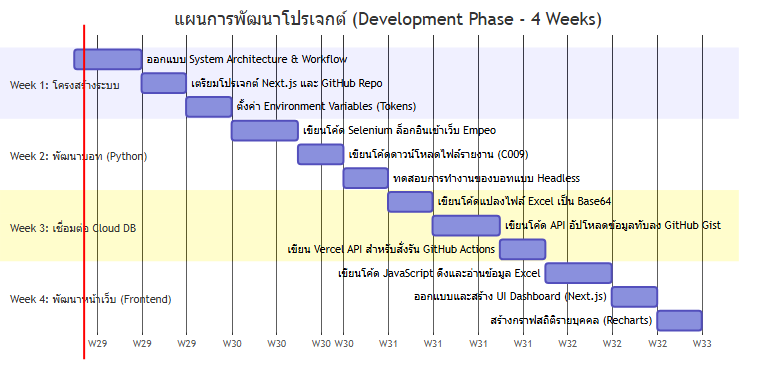
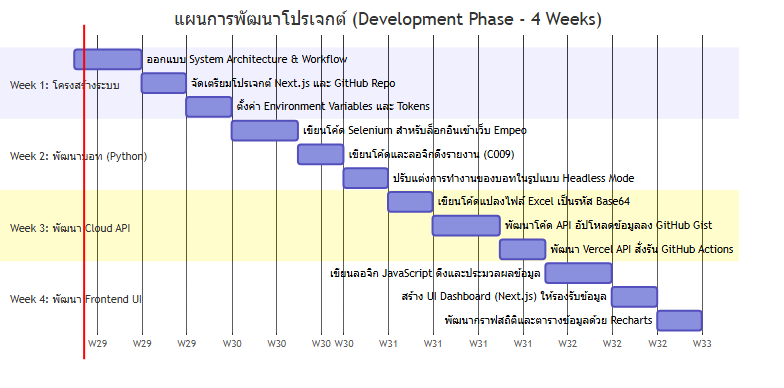
docs: remove testing from development plan

diff --git a/DEVELOPMENT_PLAN.md b/DEVELOPMENT_PLAN.md
@@ -7,22 +7,22 @@ gantt
     axisFormat  W%W
     
     section Week 1: โครงสร้างระบบ
-    ออกแบบ System Architecture & Workflow     :a1, 2026-07-20, 3d
-    เตรียมโปรเจกต์ Next.js และ GitHub Repo    :a2, after a1, 2d
-    ตั้งค่า Environment Variables (Tokens)     :a3, after a2, 2d
+    ออกแบบ System Architecture & Workflow       :a1, 2026-07-20, 3d
+    จัดเตรียมโปรเจกต์ Next.js และ GitHub Repo    :a2, after a1, 2d
+    ตั้งค่า Environment Variables และ Tokens     :a3, after a2, 2d
     
     section Week 2: พัฒนาบอท (Python)
-    เขียนโค้ด Selenium ล็อกอินเข้าเว็บ Empeo     :b1, 2026-07-27, 3d
-    เขียนโค้ดดาวน์โหลดไฟล์รายงาน (C009)        :b2, after b1, 2d
-    ทดสอบการทำงานของบอทแบบ Headless         :b3, after b2, 2d
+    เขียนโค้ด Selenium สำหรับล็อกอินเข้าเว็บ Empeo :b1, 2026-07-27, 3d
+    เขียนโค้ดและลอจิกดึงรายงาน (C009)          :b2, after b1, 2d
+    ปรับแต่งการทำงานของบอทในรูปแบบ Headless Mode :b3, after b2, 2d
     
-    section Week 3: เชื่อมต่อ Cloud DB
-    เขียนโค้ดแปลงไฟล์ Excel เป็น Base64         :c1, 2026-08-03, 2d
-    เขียนโค้ด API อัปโหลดข้อมูลทับลง GitHub Gist :c2, after c1, 3d
-    เขียน Vercel API สำหรับสั่งรัน GitHub Actions:c3, after c2, 2d
+    section Week 3: พัฒนา Cloud API
+    เขียนโค้ดแปลงไฟล์ Excel เป็นรหัส Base64      :c1, 2026-08-03, 2d
+    พัฒนาโค้ด API อัปโหลดข้อมูลลง GitHub Gist   :c2, after c1, 3d
+    พัฒนา Vercel API สั่งรัน GitHub Actions      :c3, after c2, 2d
     
-    section Week 4: พัฒนาหน้าเว็บ (Frontend)
-    เขียนโค้ด JavaScript ดึงและอ่านข้อมูล Excel   :d1, 2026-08-10, 3d
-    ออกแบบและสร้าง UI Dashboard (Next.js)     :d2, after d1, 2d
-    สร้างกราฟสถิติรายบุคคล (Recharts)         :d3, after d2, 2d
+    section Week 4: พัฒนา Frontend UI
+    เขียนลอจิก JavaScript ดึงและประมวลผลข้อมูล     :d1, 2026-08-10, 3d
+    สร้าง UI Dashboard (Next.js) ให้รองรับข้อมูล  :d2, after d1, 2d
+    พัฒนากราฟสถิติและตารางข้อมูลด้วย Recharts      :d3, after d2, 2d
 ```